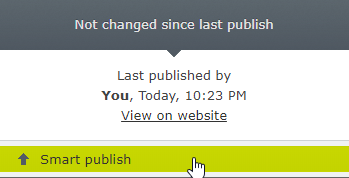
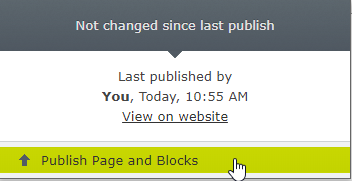
Updated readme about 'Publish page and blocks' command

diff --git a/README.md b/README.md
@@ -16,7 +16,7 @@ The list of current features is as following:
 
 All of those features work together, but you can decide which ones are enabled, by [Configuring enabled features](#configuring-enabled-features)
 
-## Smart publish
+## Publish Page and Blocks
 
 This is an extra command available in the global menu. It traverses current content dependency graph and lists all draft versions of blocks that could be published simultaneously.
 
